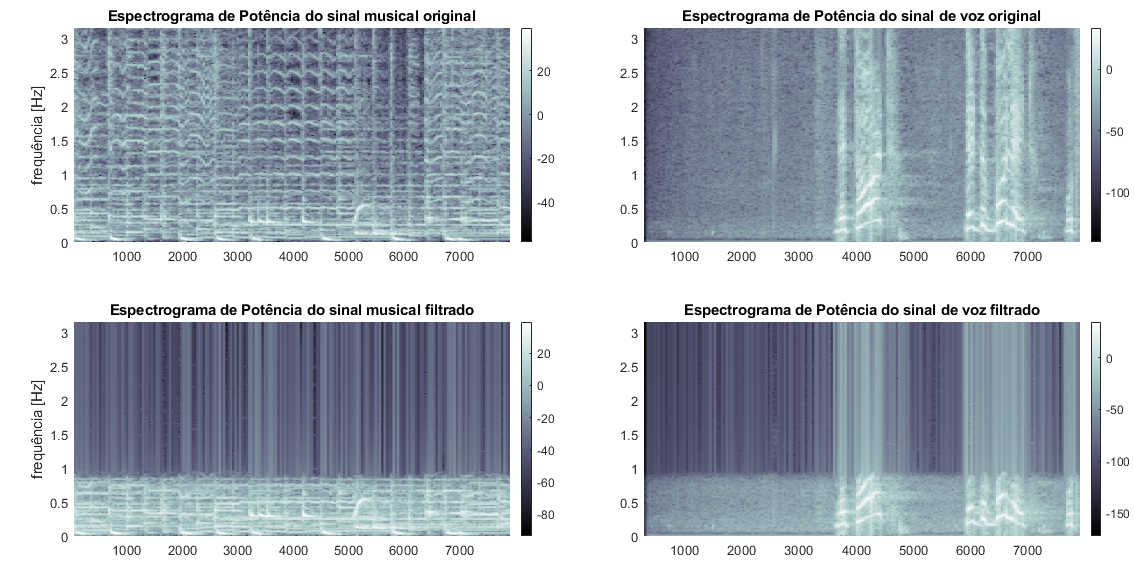
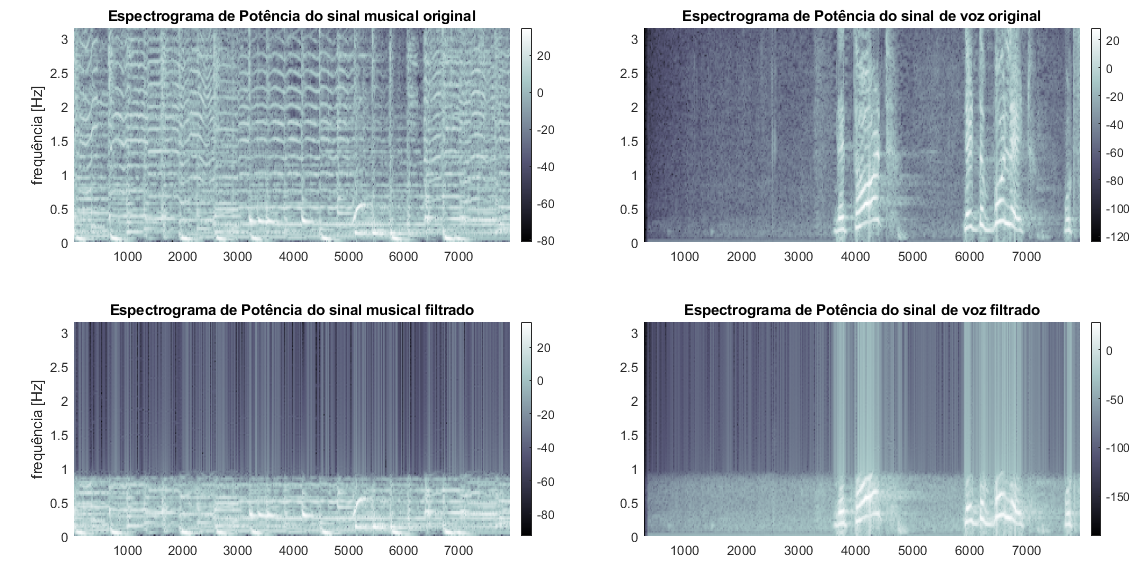
Add files via upload

diff --git a/questao2/questao2.m b/questao2/questao2.m
@@ -62,7 +62,7 @@ audiowrite('musica_filtrada.wav',y1,FS);
 audiowrite('voz_filtrada.wav',y2,FS);
 
 % espectrogramas
-N = 512;
+N = 256;
 window = hamming(N);
 Noverlap = N/2;
 
